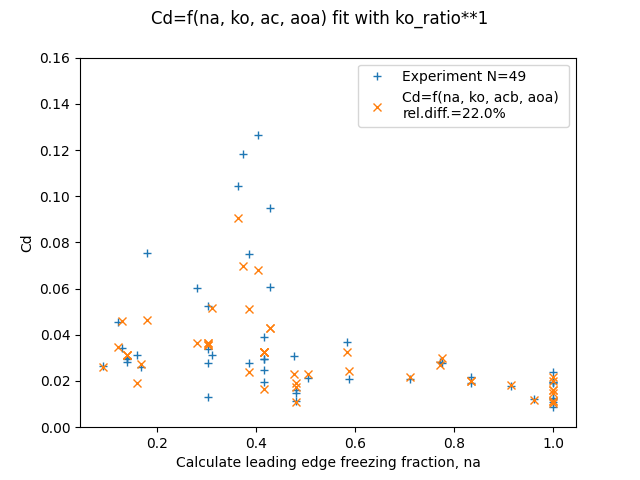
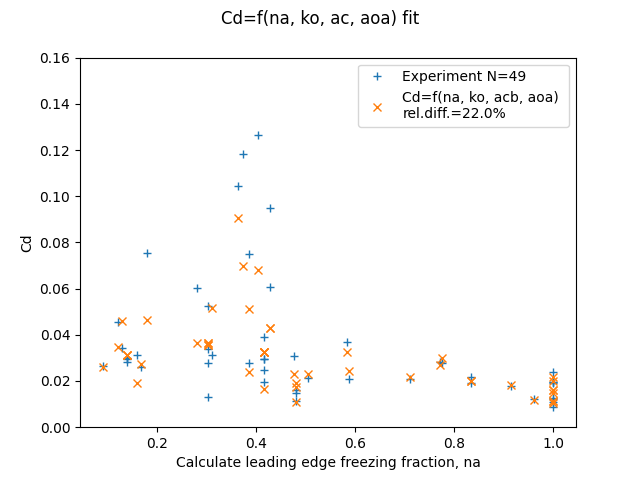
draft Ice Shape Drag

Changed region(s): [[0.25, 0.0, 0.75, 0.0625]]

diff --git a/docs/drafts/ice-shape-drag-correlations.html b/docs/drafts/ice-shape-drag-correlations.html
@@ -38,7 +38,7 @@
                 Published: Sun 12 July 2026
         </abbr>
 		<br />
-        <abbr class="modified" title="2026-07-13T12:19:22.656991-07:00">
+        <abbr class="modified" title="2026-07-13T13:11:51.704630-07:00">
                 Updated: Mon 13 July 2026
         </abbr>
 <!---->
@@ -153,7 +153,7 @@ to the liquid water content.  </p>
 icing time, and collection efficiency terms to a rate of water catch for a particular
 collection surface. It is not an ice collection term as no accounting has been made for
 changes in the collection surface attributable to ice formation.  </p>
-<p><img alt="aedcAcparam" src="images/nasa-tm-83556/aedcAcparam.png"><br>
+<p><img alt="aedcAcparam" src="images/nasa-tm-83556/aedcAcparam.png"> <br>
 <em>Public Domain image from AEDC-TR-87-23.</em>  </p>
 </blockquote>
 <p>[ρ_i is ice density, and c is chord length.]  </p>

diff --git a/content/ice_shape_drag.md b/content/ice_shape_drag.md
@@ -129,7 +129,7 @@ values on ice drag.
 
 Figure 15 shows that the drag increase due to ice is approximately proportional
 to the liquid water content.  
-
+ 
 ![nasatm83556f15ovl](images/nasa-tm-83556/nasatm83556f15ovl.png)  
 _Composite image by Donald Cook._  
 
@@ -140,7 +140,7 @@ icing time, and collection efficiency terms to a rate of water catch for a parti
 collection surface. It is not an ice collection term as no accounting has been made for
 changes in the collection surface attributable to ice formation.  
 > 
-![aedcAcparam](images/nasa-tm-83556/aedcAcparam.png)  
+![aedcAcparam](images/nasa-tm-83556/aedcAcparam.png)   
 _Public Domain image from AEDC-TR-87-23._  
 
 [ρ_i is ice density, and c is chord length.]  
